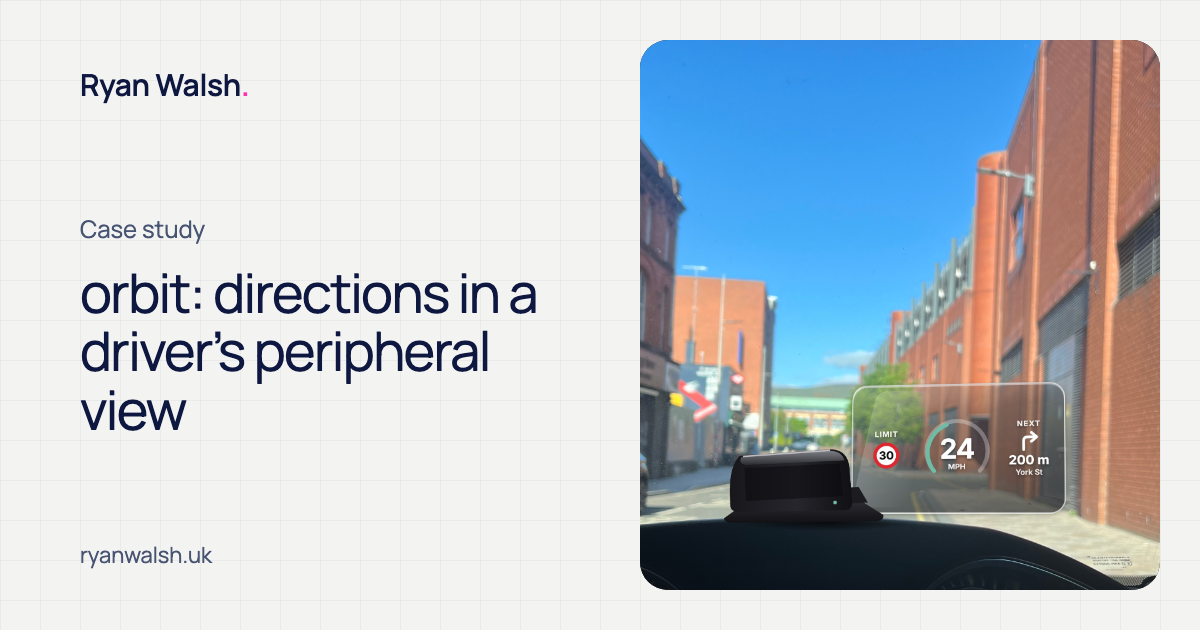
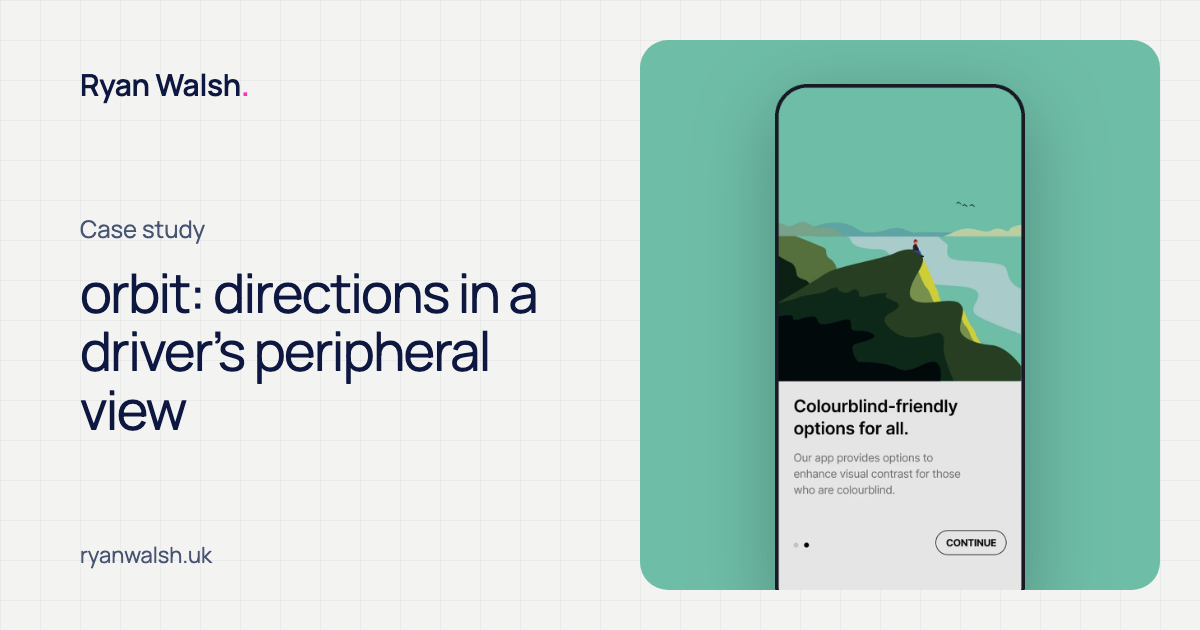
orbit: restore the original share image
- images/share/orbit.png back to the colourblind phone on mint (as before #71)
- og:image query back to v=1

diff --git a/orbit.html b/orbit.html
@@ -11,7 +11,7 @@
   <meta property="og:title" content="orbit: a heads-up display app for neurodiverse drivers">
   <meta property="og:description" content="A case study by Ryan Walsh, product designer in Belfast.">
   <meta property="og:url" content="https://ryanwalsh.uk/orbit">
-  <meta property="og:image" content="https://ryanwalsh.uk/images/share/orbit.png?v=2">
+  <meta property="og:image" content="https://ryanwalsh.uk/images/share/orbit.png?v=1">
   <meta name="twitter:card" content="summary_large_image">
 
   <link rel="icon" href="favicon.svg?v=3" type="image/svg+xml">
